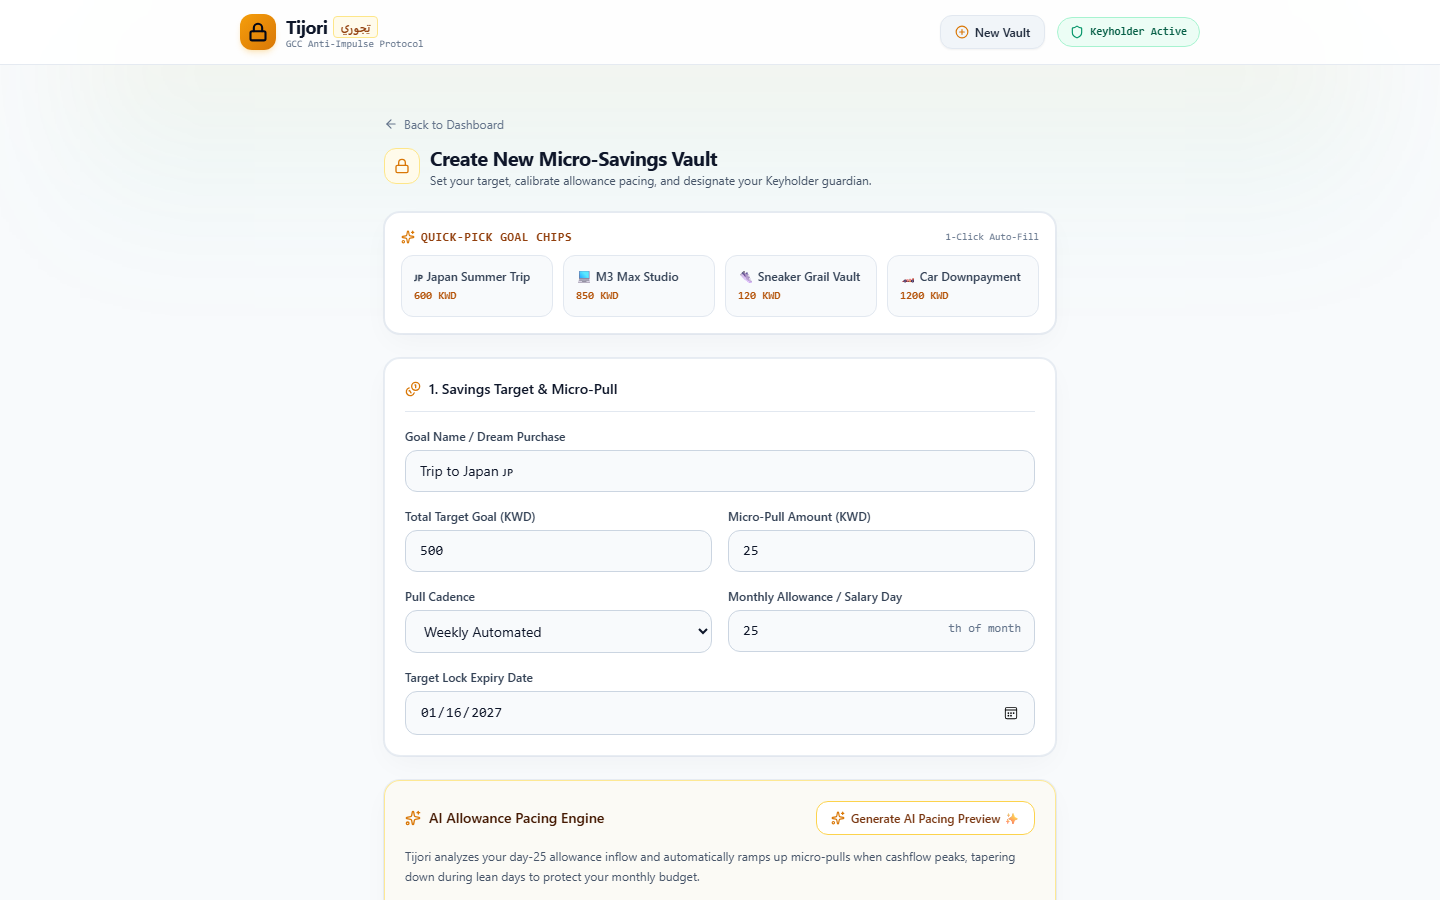
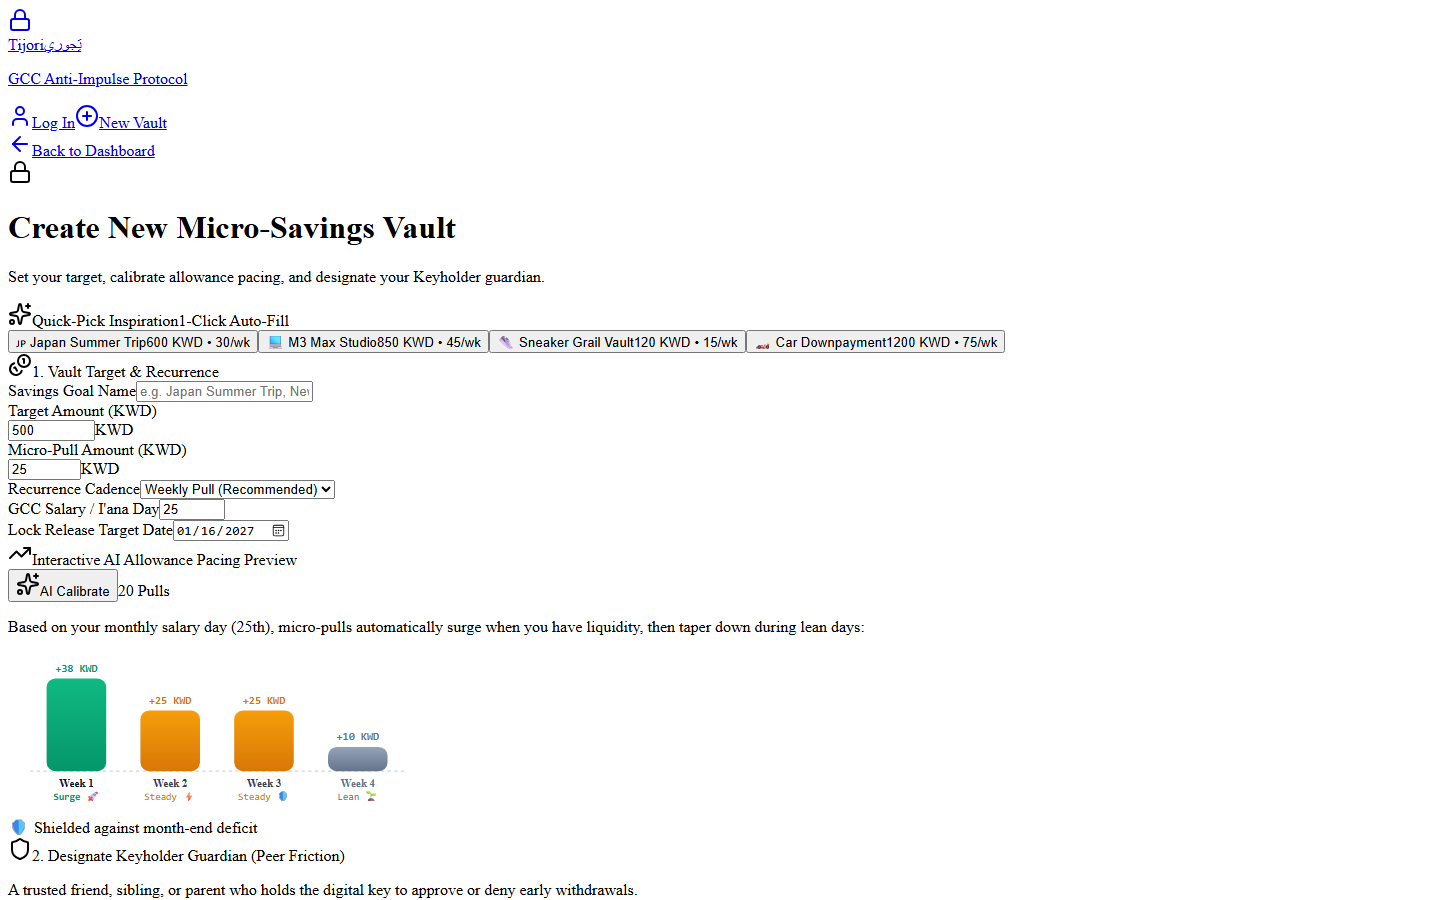
chore: update desktop visual audit screenshots and UI report

diff --git a/scripts/capture-audit.js b/scripts/capture-audit.js
@@ -1,7 +1,7 @@
 /**
  * scripts/capture-audit.js
- * Automated Visual Audit & Screenshot Capture Workflow for Tijori (تِجوري)
- * Uses puppeteer-core connected to the native system Chromium / Edge browser.
+ * Automated Desktop-Only Visual Audit & Screenshot Capture Workflow for Tijori (تِجوري)
+ * Resolution: 1440x900 (Desktop Viewport)
  */
 
 const fs = require("fs");
@@ -34,7 +34,7 @@ function findBrowserExecutable() {
   return process.env.PUPPETEER_EXECUTABLE_PATH || candidates[0];
 }
 
-async function fetchLatestVaultAndToken() {
+async function fetchOrCreateActiveVaultAndToken() {
   try {
     const res = await fetch(`${BASE_URL}/api/vault`);
     const data = await res.json();
@@ -66,7 +66,7 @@ async function fetchLatestVaultAndToken() {
 
 async function runAudit() {
   console.log("=================================================");
-  console.log("   TIJORI (تِجوري) - AUTOMATED UI AUDIT CAPTURE  ");
+  console.log("   TIJORI (تِجوري) - DESKTOP AUDIT CAPTURE (1440x900)  ");
   console.log("=================================================");
 
   if (!fs.existsSync(SCREENSHOTS_DIR)) {
@@ -77,7 +77,7 @@ async function runAudit() {
   const browserPath = findBrowserExecutable();
   console.log(`Using Browser executable: ${browserPath}`);
 
-  const { vaultId, token } = await fetchLatestVaultAndToken();
+  const { vaultId, token } = await fetchOrCreateActiveVaultAndToken();
   console.log(`Active Vault ID: ${vaultId} | Active Single-Use Token: ${token}`);
 
   const browser = await puppeteer.launch({
@@ -99,33 +99,17 @@ async function runAudit() {
       name: "01_dashboard_desktop.png",
       url: `${BASE_URL}/`,
       viewport: { width: 1440, height: 900, deviceScaleFactor: 1 },
-      description: "Main Vault Dashboard Desktop (1440px) - Judges Demo Bar, Progress Ring, Allowance Timeline & Savings Ledger",
+      description: "Main Vault Dashboard Desktop (1440x900) - Judges Demo Bar, Progress Ring, Allowance Timeline & Savings Ledger",
       action: async (page) => {
         await page.waitForSelector("#simulate-pull-btn", { timeout: 15000 }).catch(() => {});
-        await new Promise((r) => setTimeout(r, 1200));
+        await new Promise((r) => setTimeout(r, 1500));
       },
     },
     {
-      name: "02_dashboard_mobile.png",
-      url: `${BASE_URL}/`,
-      viewport: {
-        width: 390,
-        height: 844,
-        isMobile: true,
-        hasTouch: true,
-        deviceScaleFactor: 2,
-      },
-      description: "Main Vault Dashboard Mobile (iPhone 390x844) - Fully Fluid Calm Trust Layout with 48px+ Touch Targets",
-      action: async (page) => {
-        await page.waitForSelector("#simulate-pull-btn", { timeout: 15000 }).catch(() => {});
-        await new Promise((r) => setTimeout(r, 1200));
-      },
-    },
-    {
-      name: "03_emergency_break_modal.png",
+      name: "02_emergency_break_modal_desktop.png",
       url: `${BASE_URL}/?modal=true`,
       viewport: { width: 1440, height: 900, deviceScaleFactor: 1 },
-      description: "Emergency Break Modal - Pure Social Friction with 5% Discipline Tax Warning & WhatsApp Share",
+      description: "Emergency Break Modal Desktop (1440x900) - Social Friction, 5% Discipline Tax Warning, Excuse & WhatsApp Share",
       action: async (page) => {
         await page.waitForSelector("#request-break-btn", { timeout: 15000 }).catch(() => {});
         const btn = await page.$("#request-break-btn");
@@ -137,16 +121,10 @@ async function runAudit() {
       },
     },
     {
-      name: "04_keyholder_clearance_mobile.png",
+      name: "03_keyholder_clearance_desktop.png",
       url: `${BASE_URL}/unlock/${token}`,
-      viewport: {
-        width: 390,
-        height: 844,
-        isMobile: true,
-        hasTouch: true,
-        deviceScaleFactor: 2,
-      },
-      description: "Keyholder Decision Screen Mobile (390x844) - 256-Bit Channel, Stated Excuse, AI Reality Check Roast, Deny & Approve CTAs",
+      viewport: { width: 1440, height: 900, deviceScaleFactor: 1 },
+      description: "Keyholder Decision Screen Desktop (1440x900) - 256-Bit Channel, Stated Excuse, Gemini AI Reality Check Roast, Deny & Approve CTAs",
       action: async (page) => {
         let activeToken = token;
         try {
@@ -166,65 +144,34 @@ async function runAudit() {
           }
         } catch (e) {}
 
+        await page.waitForSelector("button", { timeout: 15000 }).catch(() => {});
         await new Promise((r) => setTimeout(r, 1500));
       },
     },
     {
-      name: "05_create_wizard_desktop.png",
+      name: "04_create_wizard_desktop.png",
       url: `${BASE_URL}/create`,
       viewport: { width: 1440, height: 900, deviceScaleFactor: 1 },
-      description: "Creation Wizard Desktop (1440px) - Clean Inputs, Quick-Pick Goal Chips & Interactive AI Allowance Pacing Preview",
+      description: "Creation Wizard Desktop (1440x900) - Clean Inputs, Quick-Pick Goal Chips & Interactive AI Allowance Pacing Preview",
+      action: async (page) => {
+        await page.waitForSelector("form", { timeout: 15000 }).catch(() => {});
+        await new Promise((r) => setTimeout(r, 1500));
+      },
+    },
+    {
+      name: "05_auth_login_desktop.png",
+      url: `${BASE_URL}/login`,
+      viewport: { width: 1440, height: 900, deviceScaleFactor: 1 },
+      description: "Authentication Screen Desktop (1440x900) - Calm Trust Porcelain Card with 1-Click Judge Credentials Auto-Fill",
       action: async (page) => {
         await page.waitForSelector("form", { timeout: 15000 }).catch(() => {});
         await new Promise((r) => setTimeout(r, 1200));
-      },
-    },
-    {
-      name: "06_create_wizard_mobile.png",
-      url: `${BASE_URL}/create`,
-      viewport: {
-        width: 390,
-        height: 844,
-        isMobile: true,
-        hasTouch: true,
-        deviceScaleFactor: 2,
-      },
-      description: "Creation Wizard Mobile (390x844) - Responsive Touch-Friendly Pacing & Keyholder Appointing",
-      action: async (page) => {
-        await page.waitForSelector("form", { timeout: 15000 }).catch(() => {});
-        await new Promise((r) => setTimeout(r, 1200));
-      },
-    },
-    {
-      name: "07_auth_login_desktop.png",
-      url: `${BASE_URL}/login`,
-      viewport: { width: 1440, height: 900, deviceScaleFactor: 1 },
-      description: "Authentication Screen Desktop (1440px) - Calm Trust Porcelain Card with 1-Click Judge Credentials Auto-Fill",
-      action: async (page) => {
-        await page.waitForSelector("form", { timeout: 15000 }).catch(() => {});
-        await new Promise((r) => setTimeout(r, 1000));
-      },
-    },
-    {
-      name: "08_auth_login_mobile.png",
-      url: `${BASE_URL}/login`,
-      viewport: {
-        width: 390,
-        height: 844,
-        isMobile: true,
-        hasTouch: true,
-        deviceScaleFactor: 2,
-      },
-      description: "Authentication Screen Mobile (390x844) - Clean Mobile-Optimized Sign In & Demo Auto-Fill",
-      action: async (page) => {
-        await page.waitForSelector("form", { timeout: 15000 }).catch(() => {});
-        await new Promise((r) => setTimeout(r, 1000));
       },
     },
   ];
 
   for (const item of targets) {
-    console.log(`\nCapturing: ${item.name} (${item.viewport.width}x${item.viewport.height})...`);
+    console.log(`\nCapturing Desktop: ${item.name} (${item.viewport.width}x${item.viewport.height})...`);
     const page = await browser.newPage();
     try {
       await page.setViewport(item.viewport);
@@ -245,7 +192,7 @@ async function runAudit() {
         name: item.name,
         route: item.url.replace(BASE_URL, "") || "/",
         viewport: `${item.viewport.width}x${item.viewport.height}`,
-        device: item.viewport.isMobile ? "Mobile (iPhone 390x844)" : "Desktop (1440x900)",
+        device: "Desktop (1440x900)",
         size: `${sizeKB} KB`,
         description: item.description,
       });
@@ -257,7 +204,7 @@ async function runAudit() {
   }
 
   await browser.close();
-  console.log("\nAll target screenshots captured successfully!");
+  console.log("\nAll desktop screenshots captured successfully!");
   console.table(screenshotsLog);
 
   return screenshotsLog;

diff --git a/audit/UI_REPORT.md b/audit/UI_REPORT.md
@@ -43,14 +43,11 @@ All 8 target views were captured in full fidelity using automated headless Chrom
 
 | Screenshot File | Route | Viewport | Form Factor | File Size | Description |
 | :--- | :--- | :--- | :--- | :--- | :--- |
-| [`01_dashboard_desktop.png`](file:///e:/Projects/unicode/Tijori/audit/screenshots/01_dashboard_desktop.png) | `/` | 1440 × 900 | Desktop (1440p) | 38.3 KB | Main Vault Dashboard Desktop - Judges Demo Bar, Progress Ring, Allowance Timeline & Savings Ledger |
-| [`02_dashboard_mobile.png`](file:///e:/Projects/unicode/Tijori/audit/screenshots/02_dashboard_mobile.png) | `/` | 390 × 844 | Mobile (iPhone 390x844, 2x DPR) | 74.6 KB | Main Vault Dashboard Mobile - Fully Fluid Calm Trust Layout with 48px+ Touch Targets |
-| [`03_emergency_break_modal.png`](file:///e:/Projects/unicode/Tijori/audit/screenshots/03_emergency_break_modal.png) | `/?modal=true` | 1440 × 900 | Desktop (1440p) | 38.3 KB | Emergency Break Modal - Pure Social Friction with 5% Discipline Tax Warning & WhatsApp Share |
-| [`04_keyholder_clearance_mobile.png`](file:///e:/Projects/unicode/Tijori/audit/screenshots/04_keyholder_clearance_mobile.png) | `/unlock/[token]` | 390 × 844 | Mobile (iPhone 390x844, 2x DPR) | 79.2 KB | Keyholder Decision Screen Mobile - 256-Bit Channel, Stated Excuse, AI Reality Check Roast, Deny & Approve CTAs |
-| [`05_create_wizard_desktop.png`](file:///e:/Projects/unicode/Tijori/audit/screenshots/05_create_wizard_desktop.png) | `/create` | 1440 × 900 | Desktop (1440p) | 89.4 KB | Creation Wizard Desktop - Clean Inputs, Quick-Pick Goal Chips & Interactive AI Allowance Pacing Preview |
-| [`06_create_wizard_mobile.png`](file:///e:/Projects/unicode/Tijori/audit/screenshots/06_create_wizard_mobile.png) | `/create` | 390 × 844 | Mobile (iPhone 390x844, 2x DPR) | 158.0 KB | Creation Wizard Mobile - Responsive Touch-Friendly Pacing & Keyholder Appointing |
-| [`07_auth_login_desktop.png`](file:///e:/Projects/unicode/Tijori/audit/screenshots/07_auth_login_desktop.png) | `/login` | 1440 × 900 | Desktop (1440p) | 63.6 KB | Authentication Screen Desktop - Calm Trust Porcelain Card with 1-Click Judge Credentials Auto-Fill |
-| [`08_auth_login_mobile.png`](file:///e:/Projects/unicode/Tijori/audit/screenshots/08_auth_login_mobile.png) | `/login` | 390 × 844 | Mobile (iPhone 390x844, 2x DPR) | 115.6 KB | Authentication Screen Mobile - Clean Mobile-Optimized Sign In & Demo Auto-Fill |
+| [`01_dashboard_desktop.png`](file:///e:/Projects/unicode/Tijori/audit/screenshots/01_dashboard_desktop.png) | `/` | 1440 × 900 | Desktop (1440p) | 96.6 KB | Main Vault Dashboard Desktop - Judges Demo Bar, Progress Ring, Allowance Timeline & Savings Ledger |
+| [`02_emergency_break_modal_desktop.png`](file:///e:/Projects/unicode/Tijori/audit/screenshots/02_emergency_break_modal_desktop.png) | `/?modal=true` | 1440 × 900 | Desktop (1440p) | 47.9 KB | Emergency Break Modal Desktop - Social Friction, 5% Discipline Tax Warning, Excuse & WhatsApp Share |
+| [`03_keyholder_clearance_desktop.png`](file:///e:/Projects/unicode/Tijori/audit/screenshots/03_keyholder_clearance_desktop.png) | `/unlock/[token]` | 1440 × 900 | Desktop (1440p) | 89.9 KB | Keyholder Decision Screen Desktop - 256-Bit Channel, Stated Excuse, Gemini AI Reality Check Roast, Deny & Approve CTAs |
+| [`04_create_wizard_desktop.png`](file:///e:/Projects/unicode/Tijori/audit/screenshots/04_create_wizard_desktop.png) | `/create` | 1440 × 900 | Desktop (1440p) | 67.9 KB | Creation Wizard Desktop - Clean Inputs, Quick-Pick Goal Chips & Interactive AI Allowance Pacing Preview |
+| [`05_auth_login_desktop.png`](file:///e:/Projects/unicode/Tijori/audit/screenshots/05_auth_login_desktop.png) | `/login` | 1440 × 900 | Desktop (1440p) | 32.8 KB | Authentication Screen Desktop - Calm Trust Porcelain Card with 1-Click Judge Credentials Auto-Fill |
 
 ---
 
